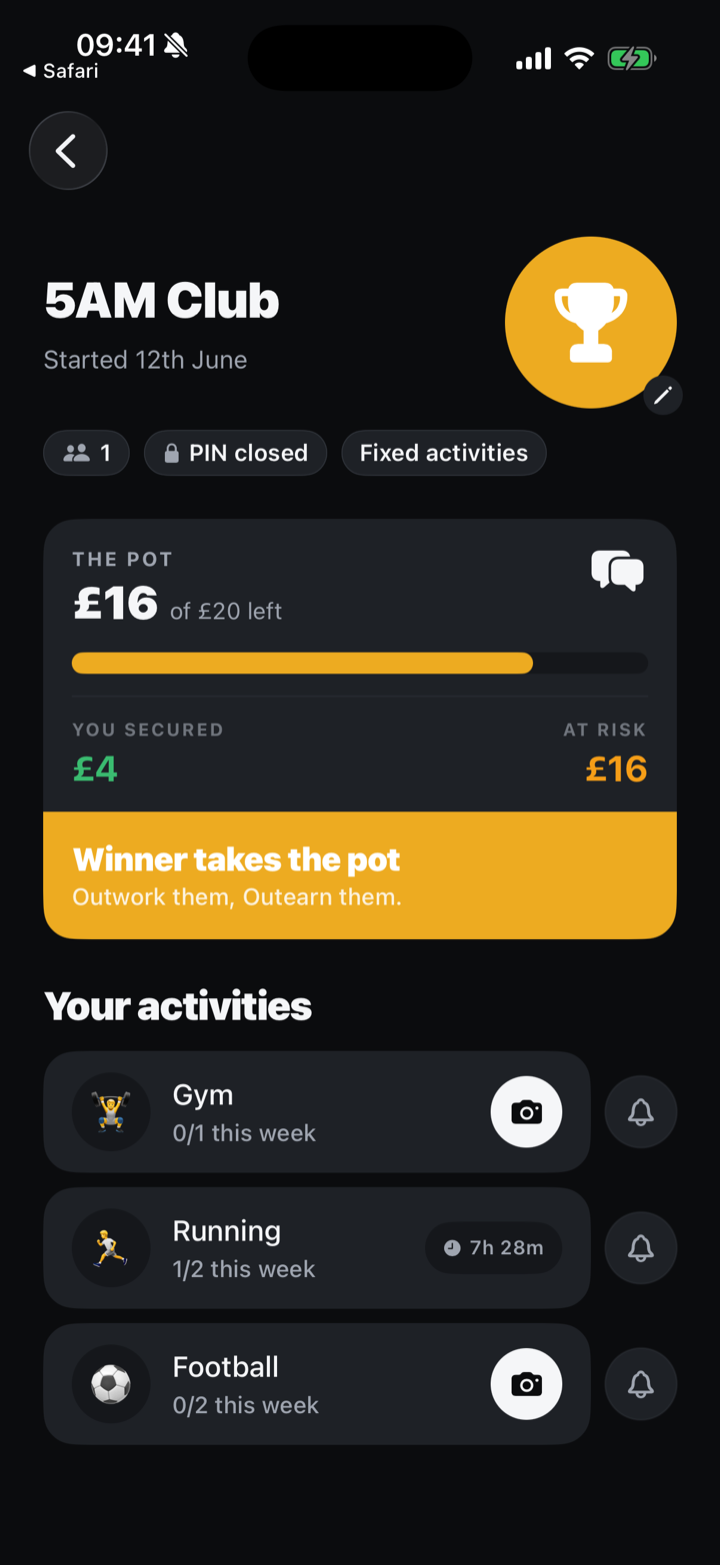
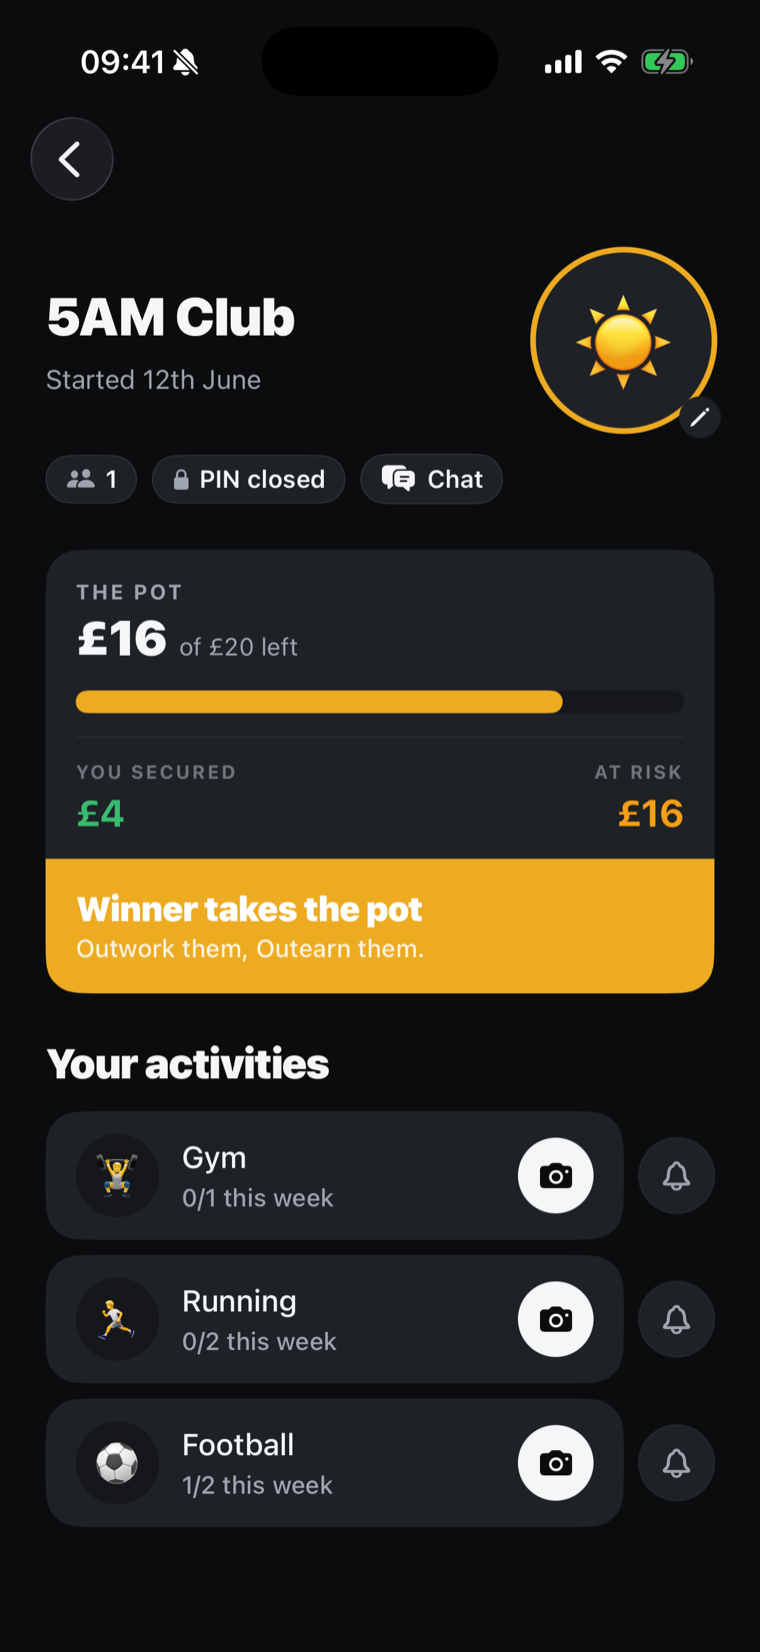
Hero: three fresh full-screen phones, sized for the wide laptop layout

diff --git a/style.css b/style.css
@@ -54,16 +54,16 @@ header {
 
 /* laptop: text left, phones right, both filling the width */
 @media (min-width: 920px) {
-  .hero { padding: 76px 0; }
+  .hero { padding: 72px 0; }
   .hero-inner {
-    display: flex; align-items: center; gap: 64px;
-    padding: 0 56px; text-align: left;
+    display: flex; align-items: center; gap: 48px;
+    padding: 0 48px; text-align: left;
   }
   .hero-copy { flex: 1 1 0; }
-  .hero h1 { font-size: clamp(48px, 5.2vw, 70px); margin-bottom: 24px; }
-  .hero p { font-size: 19px; margin: 0 0 34px; max-width: 480px; }
-  .hero-phones { flex: 0 0 auto; margin: 0; max-width: none; }
-  .hero-phones .phone { flex: 0 0 auto; width: 256px; }
+  .hero h1 { font-size: clamp(44px, 4.6vw, 62px); margin-bottom: 24px; }
+  .hero p { font-size: 19px; margin: 0 0 34px; max-width: 460px; }
+  .hero-phones { flex: 0 0 auto; margin: 0; max-width: none; gap: 12px; }
+  .hero-phones .phone { flex: 0 0 auto; width: 204px; }
 }
 .btn {
   display: inline-block;

diff --git a/index.html b/index.html
@@ -10,7 +10,7 @@
   <meta property="og:url" content="https://hustlrs.co">
   <link rel="icon" type="image/png" sizes="32x32" href="/img/favicon-32.png?v=2">
   <link rel="apple-touch-icon" href="/img/apple-touch-icon.png?v=2">
-  <link rel="stylesheet" href="style.css?v=16">
+  <link rel="stylesheet" href="style.css?v=17">
 </head>
 <body>
   <div class="wrap">
@@ -28,6 +28,7 @@
         <div class="hero-phones">
           <div class="phone"><img src="img/app-home.png" alt="The Hustlrs home screen showing live hustles"></div>
           <div class="phone"><img src="img/app-hustle.png" alt="A hustle showing the pot and activities"></div>
+          <div class="phone"><img src="img/app-feed.png" alt="The feed of activity photos"></div>
         </div>
       </div>
     </section>
